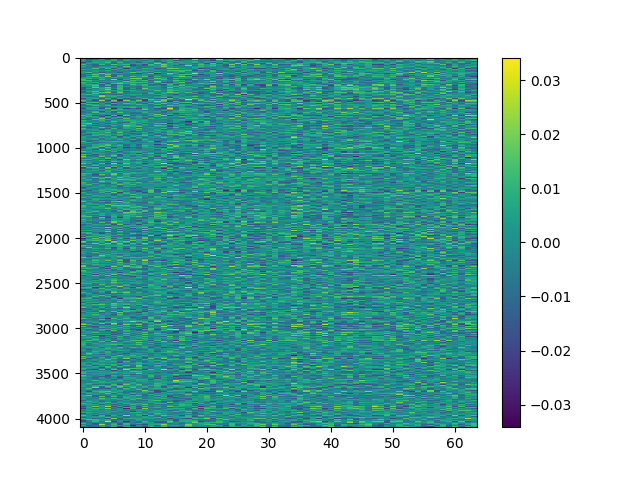
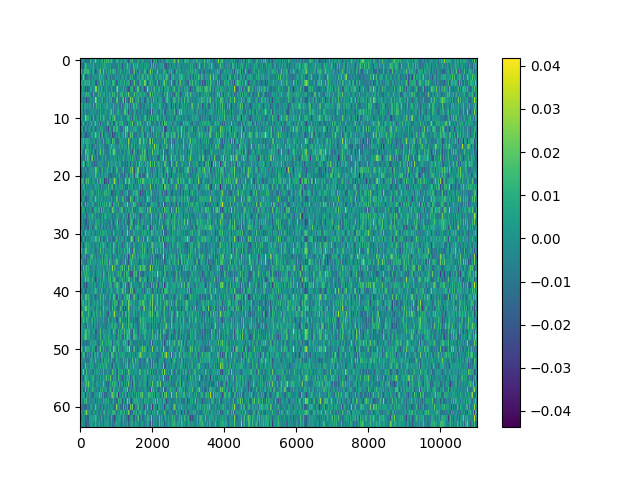
Fixes to difference plots

diff --git a/analysis.py b/analysis.py
@@ -248,7 +248,7 @@ def analyze_absolute(models):
                             os.makedirs(saveDir)
 
                         fig, ax = plt.subplots()
-                        cax = ax.matshow(result - init)
+                        cax = ax.imshow(result - init, interpolation='nearest', aspect='auto')
                         fig.colorbar(cax)
                         ax.xaxis.tick_bottom()
                         plt.savefig(os.path.join(saveDir, f"{model}_{layerIndex}_{fragment}_{matrix}.png"))
@@ -305,7 +305,7 @@ if __name__ == '__main__':
     #ensureImageSubset(os.path.join(PATH, "alpaca-2-13b-r64/init-r64-meta-llama/Llama-2-13b-hf/adapter_model.bin"), os.path.join(PATH, "/workspace/analysis/alpaca-2-13b-r32/init-r32-meta-llama/Llama-2-13b-hf/adapter_model.bin"))
 
     #plot_grassmann()
-    print_absolute()
+    #print_absolute()
 
     models = {}
     for directory in os.listdir(PATH):
@@ -315,6 +315,8 @@ if __name__ == '__main__':
     #print(models["alpaca-2-7b-r64"].layers[0].modules["self_attn.q_proj"]["A"]["init"].matrix.shape)  # 4096
     #print(models["alpaca-2-13b-r64"].layers[0].modules["self_attn.q_proj"]["A"]["init"].matrix.shape) # 5120
     #print(models["alpaca-2-70b-r64"].layers[0].modules["self_attn.q_proj"]["A"]["init"].matrix.shape) # 8192
+
+    analyze_absolute(models)
 
     #plotDistribution(models["alpaca-2-7b-r64"].layers[0]["self_attn.q_proj"]["A"]["init"])
 
